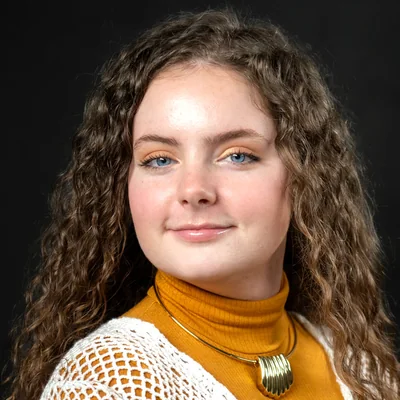
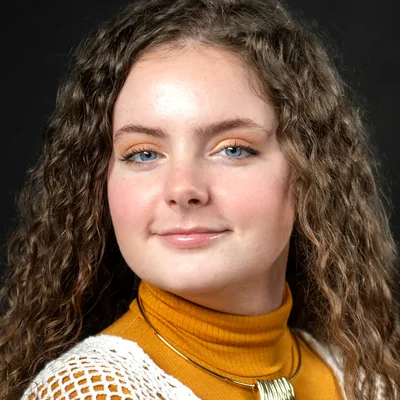
Hero: inline portrait opens the statement; new tagline; recentred crop
Claude-Session: https://claude.ai/code/session_01S4gFCV3SUK2s2kdr2YB3Yf

diff --git a/index.html b/index.html
@@ -178,26 +178,26 @@
   .hero-rule { align-self: stretch; width: 2px; border-radius: 2px;
     background: linear-gradient(transparent, color-mix(in srgb, var(--orchid) 70%, transparent) 18%, color-mix(in srgb, var(--orchid) 70%, transparent) 82%, transparent); }
   .hero-statement {
-    margin: 0; max-width: 20ch;
+    margin: 0; max-width: 21ch;
     /* lead in Syne (one of the reel's faces) at a calm medium weight; the
        ending in the system's display face, extra-bold in the reel's orchid */
     font-family: 'Syne', var(--font-display); font-weight: 500;
-    font-size: clamp(1.9rem, 3.3vw, 3.05rem); line-height: 1.08; letter-spacing: -0.02em;
+    font-size: clamp(1.7rem, 2.9vw, 2.7rem); line-height: 1.08; letter-spacing: -0.02em;
     color: var(--plum-mid); text-wrap: pretty;
   }
-  /* portrait sits above the name reel, so the left side carries as much weight as the statement */
-  .hero-main { gap: clamp(16px, 2vw, 26px); }
+  /* portrait opens the statement like a drop-in on its first line; the lines after it wrap under */
   .hero-portrait {
-    width: clamp(88px, 8.5vw, 128px); height: auto; aspect-ratio: 1; border-radius: 50%; object-fit: cover; display: block;
-    border: 4px solid color-mix(in srgb, #fff 85%, transparent);
+    width: 1.7em; height: 1.7em; border-radius: 50%; object-fit: cover; display: inline-block;
+    vertical-align: -0.24em; margin-right: 0.28em;
+    border: 0.08em solid color-mix(in srgb, #fff 85%, transparent);
     box-shadow: 0 0 0 1.5px color-mix(in srgb, var(--orchid) 45%, transparent), 0 14px 30px -16px color-mix(in srgb, var(--plum) 70%, transparent);
   }
+  .hero-statement .nowrap { white-space: nowrap; }
   .hero-statement em { display: block; font-style: normal; font-family: var(--font-display); font-weight: 800; letter-spacing: -0.03em; color: var(--orchid); }   /* large text holds 3:1 on gold */
   @media (max-width: 860px) {
     .hero-grid { grid-template-columns: minmax(0, 1fr); min-height: 0; gap: clamp(20px, 5vw, 32px); }
     .hero-rule { justify-self: center; align-self: auto; width: 64px; height: 2px; }
     .hero-statement { text-align: center; justify-self: center; }
-    .hero-portrait { width: clamp(84px, 24vw, 112px); }
     #view-home .hero { --display: clamp(1.6rem, 8vw, 2.6rem); padding-top: clamp(64px, 16vw, 84px); }   /* clear the Motion switch; large enough to hold 3:1 on gold */
   }
 
@@ -1841,7 +1841,6 @@
 
     <div class="hero-grid">
       <div class="hero-main">
-        <img class="hero-portrait" src="images/mia-headshot.webp" width="400" height="400" alt="Mia Biehler" decoding="async">
         <div class="block" id="block" aria-hidden="true">
           <span class="l"><span class="slot" id="slotMia"><span class="col" id="colMia"></span></span></span>
           <span class="r"><span class="slot" id="slotBie"><span class="col" id="colBie"></span></span></span>
@@ -1851,7 +1850,7 @@
       </div>
       <span class="hero-rule" aria-hidden="true"></span>
       <!-- DRAFT statement: Mia is still writing this one -->
-      <p class="hero-statement">User experience designer and researcher, <em>shaping how people think alongside AI.</em></p>
+      <p class="hero-statement"><img class="hero-portrait" src="images/mia-headshot.webp" width="400" height="400" alt="Mia Biehler" decoding="async"><span class="nowrap">User experience</span> designer and researcher <em>building the augmented future of AI-human teaming.</em></p>
     </div>
   </header>
 
